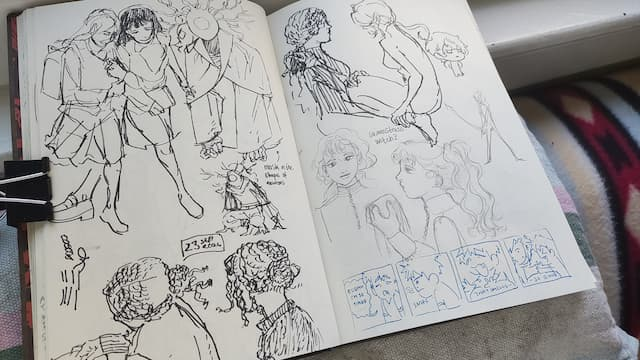
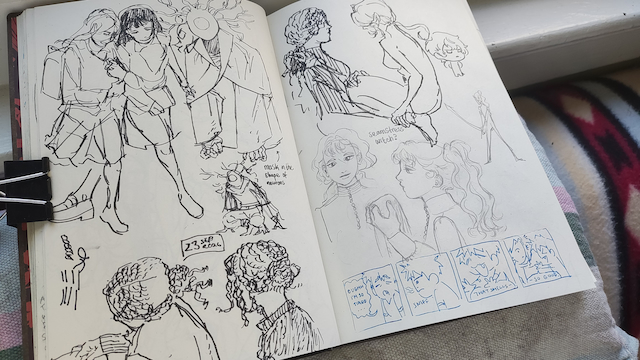
gallery complete

diff --git a/css/style.css b/css/style.css
@@ -79,13 +79,24 @@ figcaption{
     margin: 0 auto;
 }
 
+#lit div p:nth-child(3n+1)::first-letter {
+    color: #ebc5cd;
+    float: left;
+    font-size: 5rem;
+    font-weight: 900;
+    padding: .25rem;
+    line-height: 0.65;
+}
+
+
 /*FOOTER*/
 footer {
     text-align: center;
     padding: 20px;
-    color: #EBC5CD;
+    color: #ebc5cd;
 }
 
+/* Medium Screen Size */
 @media screen and (min-width: 60em) {
     figure { 
         display: grid;
@@ -99,5 +110,30 @@ footer {
         font-size: 2rem;
         margin-left: 4rem;
     }
+
+    #lit div {
+        display: flex;
+        columns: 40rem;
+    }
     
+}
+
+/* Large screen size */
+@media screen and (min-width: 100em) {
+    #gallery {
+        display: grid;
+        grid-template-columns: 1fr 1fr 1fr;
+    }
+
+    hr {
+        display: none;
+    }
+
+    #gallery h2 {
+        grid-column: 1/-1;
+    }
+
+    figure {
+        display: block;
+    }
 }
